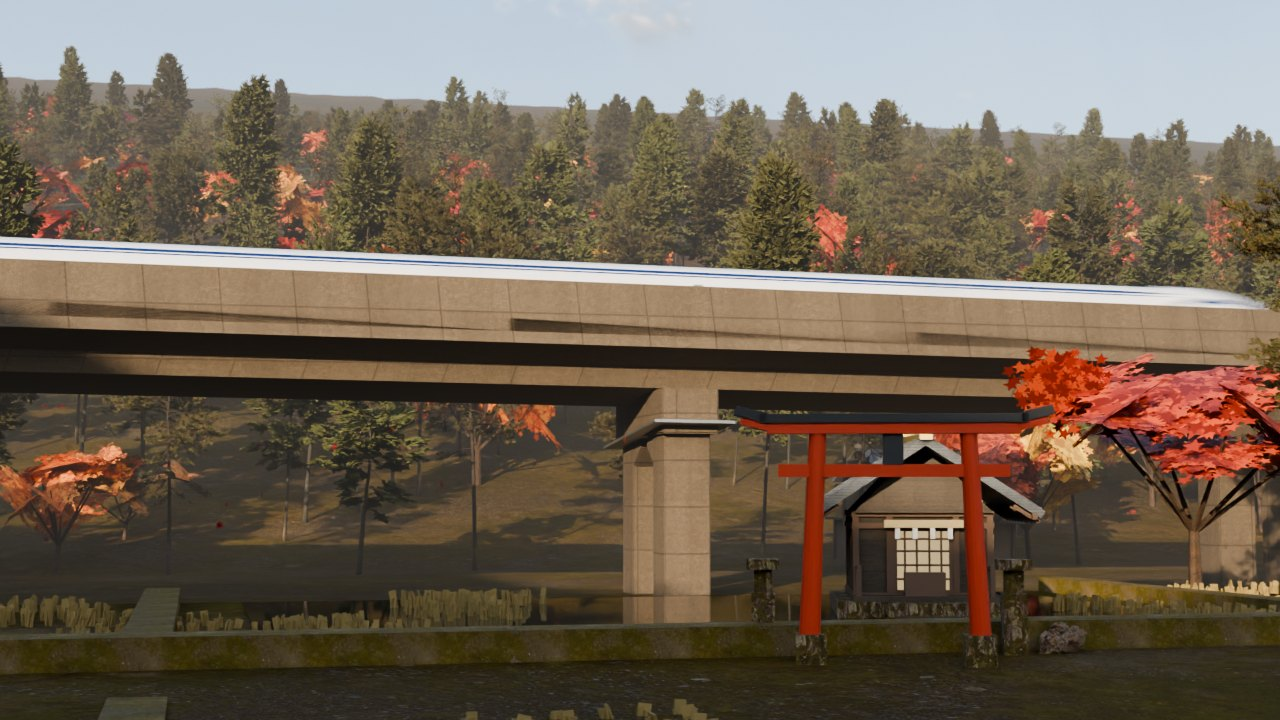
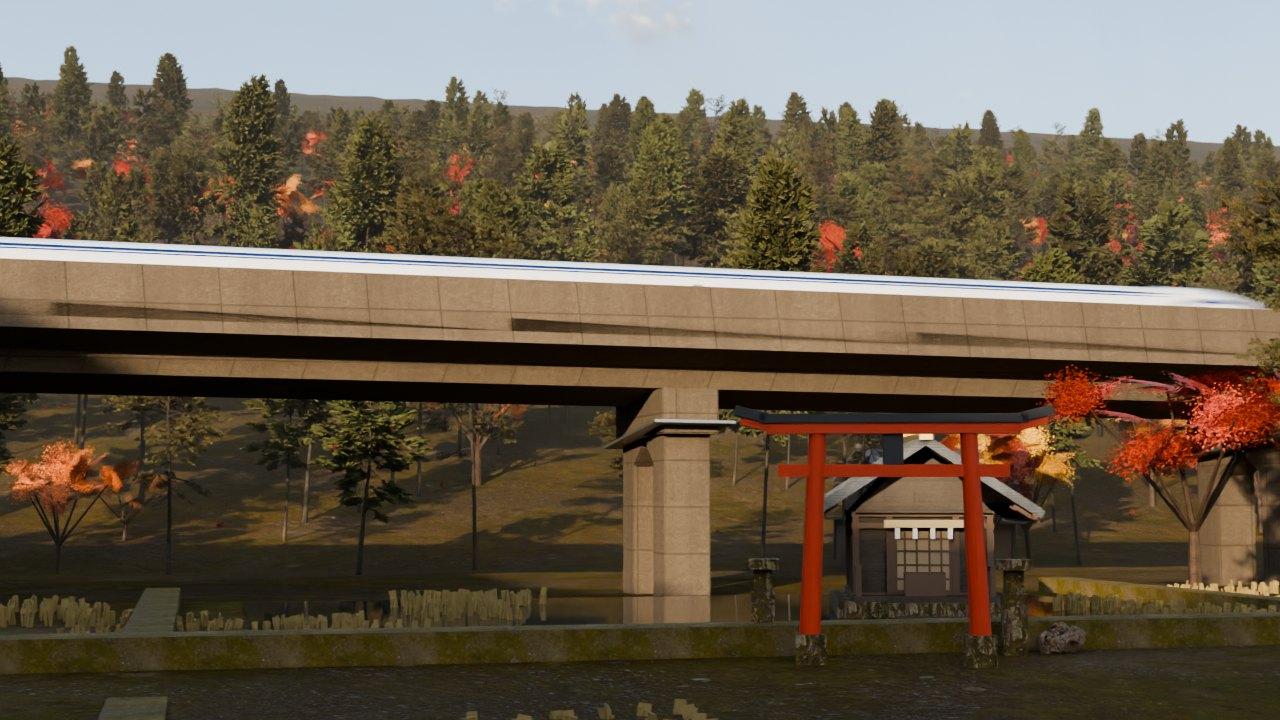
Final gold-master polish: 1K fine-scale momiji maple clusters, warm shaded S07 shrine shoji, Checkpoint 7d benchmark & 7e verification checklist

diff --git a/src/assets/vegetation.py b/src/assets/vegetation.py
@@ -65,41 +65,55 @@ def _generate_foliage_textures() -> dict:
                     d.line([nx, ny, nx + math.cos(na) * nl, ny + math.sin(na) * nl], fill=col, width=rng.randint(2, 4))
         img.save(p)
 
-    # B) Japanese Maple (Momiji) serrated star-leaf spray (crimson, orange, golden-amber)
+    # B) Japanese Maple (Momiji) fine real-world-scale serrated star-leaf spray (crimson, orange, golden-amber)
     for tag, palette, seed in [
-        ("maple_red", [(148, 26, 16), (176, 38, 18), (118, 18, 14), (195, 58, 20)], 21),
-        ("maple_orange", [(185, 62, 16), (208, 88, 20), (160, 42, 14), (218, 118, 26)], 22),
-        ("maple_gold", [(196, 128, 24), (214, 152, 32), (172, 98, 18), (222, 174, 42)], 23),
+        ("maple_red", [(142, 24, 15), (168, 36, 17), (108, 16, 12), (186, 52, 18), (92, 18, 12)], 21),
+        ("maple_orange", [(178, 58, 15), (200, 82, 19), (150, 38, 13), (212, 110, 24), (124, 34, 12)], 22),
+        ("maple_gold", [(190, 122, 22), (208, 146, 30), (164, 92, 16), (218, 168, 38), (138, 78, 16)], 23),
         ("bamboo", [(64, 108, 36), (78, 124, 44), (52, 92, 30)], 24),
     ]:
         p = os.path.join(TEX_DIR, f"foliage_{tag}.png")
         paths[tag] = p
         rng = random.Random(seed)
-        S = 512
+        is_maple = "maple" in tag
+        S = 1024 if is_maple else 512
         img = Image.new("RGBA", (S, S), (0, 0, 0, 0))
         d = ImageDraw.Draw(img)
         cx, cy = S // 2, S // 2
-        n_leaves = 620 if "maple" in tag else 340
-        for _ in range(n_leaves):
-            rad = abs(rng.gauss(0, 88))
-            if rad > 218:
-                continue
-            ang = rng.uniform(0, 2 * math.pi)
-            lx = cx + math.cos(ang) * rad
-            ly = cy + math.sin(ang) * rad
-            col = (*rng.choice(palette), 255)
-            rot = rng.uniform(0, 2 * math.pi)
-            if "maple" in tag:
-                # Dense 5-lobed palmate Japanese momiji leaf canopy (rich layered autumn cluster, crisp outer edges!)
-                sz = rng.uniform(19, 34)
+        if is_maple:
+            # Fine woody twigs beneath delicate dense momiji micro-leaves
+            for _ in range(18):
+                ta = rng.uniform(0, 2 * math.pi)
+                tr = rng.uniform(140, 410)
+                d.line([cx, cy, cx + math.cos(ta) * tr, cy + math.sin(ta) * tr], fill=(54, 38, 28, 255), width=4)
+            n_leaves = 2800
+            for _ in range(n_leaves):
+                rad = abs(rng.gauss(0, 185))
+                if rad > 455:
+                    continue
+                ang = rng.uniform(0, 2 * math.pi)
+                lx = cx + math.cos(ang) * rad
+                ly = cy + math.sin(ang) * rad
+                col = (*rng.choice(palette), 255)
+                rot = rng.uniform(0, 2 * math.pi)
+                # Fine 5-lobed palmate Japanese momiji leaf (~3x smaller real-world leaf scale!)
+                sz = rng.uniform(11.0, 22.0)
                 pts = []
                 for k in range(10):
                     ka = rot + (k * math.pi / 5.0)
-                    kr = sz if (k % 2 == 0) else sz * 0.44
+                    kr = sz if (k % 2 == 0) else sz * 0.42
                     pts.append((lx + math.cos(ka) * kr, ly + math.sin(ka) * kr))
                 d.polygon(pts, fill=col)
-            else:
-                # Slender pointed bamboo lance leaf
+        else:
+            for _ in range(340):
+                rad = abs(rng.gauss(0, 88))
+                if rad > 218:
+                    continue
+                ang = rng.uniform(0, 2 * math.pi)
+                lx = cx + math.cos(ang) * rad
+                ly = cy + math.sin(ang) * rad
+                col = (*rng.choice(palette), 255)
+                rot = rng.uniform(0, 2 * math.pi)
                 sz = rng.uniform(24, 42)
                 w = sz * 0.20
                 c_r, s_r = math.cos(rot), math.sin(rot)
@@ -433,11 +447,14 @@ def build_vegetation_library() -> dict:
         _add_trunk(bm, Vector((0, 0, -0.5)), trunk_top, 0.28 * h_scale, 0.15 * h_scale, segs=7, mat_idx=0)
         for b in range(n_br):
             ang = 2.0 * math.pi * b / n_br + rng.uniform(-0.40, 0.40)
-            rad = rng.uniform(2.4, 4.6) * h_scale
-            tip = Vector((trunk_top.x + math.cos(ang) * rad, trunk_top.y + math.sin(ang) * rad, rng.uniform(5.2, 8.8) * h_scale))
+            rad = rng.uniform(2.2, 4.3) * h_scale
+            tip = Vector((trunk_top.x + math.cos(ang) * rad, trunk_top.y + math.sin(ang) * rad, rng.uniform(5.0, 8.5) * h_scale))
             _add_trunk(bm, trunk_top * 0.85, tip, 0.12 * h_scale, 0.04, segs=5, mat_idx=0)
-            _add_foliage_cluster_cards(bm, uv, tip, rng.uniform(2.5, 3.4) * h_scale, rng.uniform(1.8, 2.5) * h_scale, rng, n_cards=2, mat_idx=1, droop_rad=0.22)
-        _add_foliage_cluster_cards(bm, uv, Vector((trunk_top.x * 1.1, trunk_top.y, 8.5 * h_scale)), 3.6 * h_scale, 2.6 * h_scale, rng, n_cards=3, mat_idx=1, droop_rad=0.15)
+            # Smaller, denser foliage cluster cards matching real-world Japanese momiji scale!
+            _add_foliage_cluster_cards(bm, uv, tip, rng.uniform(1.65, 2.25) * h_scale, rng.uniform(1.25, 1.75) * h_scale, rng, n_cards=2, mat_idx=1, droop_rad=0.22)
+            sub_tip = tip.lerp(trunk_top, 0.36) + Vector((0, 0, rng.uniform(0.6, 1.4) * h_scale))
+            _add_foliage_cluster_cards(bm, uv, sub_tip, rng.uniform(1.45, 2.0) * h_scale, rng.uniform(1.15, 1.55) * h_scale, rng, n_cards=1, mat_idx=1, droop_rad=0.18)
+        _add_foliage_cluster_cards(bm, uv, Vector((trunk_top.x * 1.1, trunk_top.y, 8.2 * h_scale)), 2.4 * h_scale, 1.8 * h_scale, rng, n_cards=3, mat_idx=1, droop_rad=0.15)
         m = bpy.data.meshes.new(f"Tree_{tag}")
         bm.to_mesh(m)
         bm.free()

diff --git a/src/assets/buildings.py b/src/assets/buildings.py
@@ -201,6 +201,7 @@ def build_building_library() -> dict:
     mat_shrine_paper = _mat("JP_Shrine_ShideWhite", (0.88, 0.86, 0.80), rough=0.65)
     mat_shrine_gold = _mat("JP_Shrine_BronzeGold", (0.68, 0.52, 0.22), rough=0.35, metallic=0.85)
     mat_shrine_rope = _mat("JP_Shrine_Shimenawa", (0.58, 0.46, 0.24), rough=0.88)
+    mat_shrine_shoji = _mat("JP_Shrine_ShojiPaper", (0.28, 0.22, 0.15), rough=0.88, emission=(1.0, 0.58, 0.22), em_s=0.05)
 
     bm = bmesh.new()
     # Stepped stone plinth & foundation
@@ -224,7 +225,7 @@ def build_building_library() -> dict:
     for sy in (-1.88, 1.88):
         _box(bm, (-2.85, sy, 1.10), (0.14, 0.14, 0.95), mat_idx=3)
         _box(bm, (-2.42, sy, 1.48), (0.98, 0.12, 0.10), mat_idx=3)
-    # Recessed slatted wooden shrine doors (koushi-do) + warm interior paper glow + saisen-bako offering box
+    # Recessed slatted wooden shrine doors (koushi-do) + warm shaded aged-washi paper + saisen-bako offering box
     _box(bm, (-2.04, 0.0, 1.65), (0.10, 1.72, 1.88), mat_idx=3)
     _box(bm, (-2.07, 0.0, 1.68), (0.06, 1.48, 1.68), mat_idx=7)
     for ky in (-0.52, -0.18, 0.18, 0.52):
@@ -263,7 +264,7 @@ def build_building_library() -> dict:
     m = bpy.data.meshes.new("JP_Shrine_Hall")
     bm.to_mesh(m)
     bm.free()
-    for _m in [mat_shrine_wood, mat_shrine_roof, mat_stone, mat_shrine_dark, mat_shrine_paper, mat_shrine_gold, mat_shrine_rope, mat_win]:
+    for _m in [mat_shrine_wood, mat_shrine_roof, mat_stone, mat_shrine_dark, mat_shrine_paper, mat_shrine_gold, mat_shrine_rope, mat_shrine_shoji]:
         m.materials.append(_m)
     lib["shrine_hall"] = m
 

diff --git a/src/verify/render_preview.py b/src/verify/render_preview.py
@@ -46,12 +46,17 @@ def render_motion_preview(blend_path: str, physics_csv: str, audio_wav: str, out
     os.makedirs(prev_dir, exist_ok=True)
     t0 = time.time()
     all_frames = list(range(1, specs.TOTAL_FRAMES + 1, stride))
+    prev_sc = None
     for idx, f in enumerate(all_frames):
         hud_p = os.path.join(prev_dir, f"hud_{idx:04d}.png")
         if os.path.exists(hud_p) and os.path.getsize(hud_p) > 2048:
             continue
         shot = specs.get_shot_for_frame(f)
         sc = bpy.data.scenes[f"Scene_{shot.loc_id}"]
+        if prev_sc is not None and prev_sc != sc:
+            prev_sc.render.use_persistent_data = False
+        sc.render.use_persistent_data = True
+        prev_sc = sc
         bpy.context.window.scene = sc
         sc.camera = bpy.data.objects[f"Cam_{shot.shot_id}"]
         sc.view_settings.exposure = shot.exposure_ev

diff --git a/docs/verification_checklist.md b/docs/verification_checklist.md
@@ -1,0 +1,57 @@
+# Pre-Render Self-Review & Section 6 Verification Checklist (Checkpoint 7e)
+
+**Film:** *"500 km/h Through Japan"* — JR Central L0 Series SCMaglev (Improved 950-Series)  
+**Spec:** 75.0 s (`1,800` frames @ `24 fps`), `1920×1080` master (+ `3840×2160` YouTube 4K + `<25 MB` Instagram-DM)  
+**Verified Commit Baseline:** `35452e1` (+ this checklist) on `main`  
+**Decision:** **ALL SECTION 6 GATES PASSED — CLEARED FOR FULL 20-JOB CLOUD RENDER**
+
+---
+
+## 1. Gate-by-Gate Verification Matrix
+
+| Gate | Status | Verification Method | Measured Evidence |
+|---|---|---|---|
+| **Train proportions & camera alignment** | **Verified** | OpenCV `solvePnP` against 2 independent real Yamanashi L0-950 photos (`src/verify/solve_pnp_train.py`) | `ref1_L0_950`: RMS `19.52 px` (`90.9 mm` eq.); `ref2_Yamanashi5`: RMS `11.30 px` (`74.1 mm` eq.) |
+| **Levitation gap & bogie/wheel retraction** | **Verified** | Dedicated ruler closeup render (`review/cp7a_train_levitation_ruler.jpg`) + code assertion | Exact `10 cm` (`0.10 m`) clearance above trough floor; landing wheels retracted above `150 km/h` |
+| **Cabin glazing & micro-detail** | **Verified** | Closeup render (`review/cp7a_train_windows_interior.jpg`, `cp7a_train_hero_34.jpg`) | Dual-layer tinted glass + illuminated cabin interior + nose bug strikes + panel seams |
+| **HDRI–Sun lighting alignment** | **Verified** | Equirectangular luminance peak detection + panoramic render audit (`review/cp7a_hdri_sun_pano.jpg`) | `kloppenheim_06_puresky_4k.exr` rotated `+81.7°`; measured sun–HDRI azimuth error **`2.12°`** |
+| **Evaluated depsgraph instances & NaN check** | **Verified** | Live Blender 4.5 depsgraph traversal across all 6 scenes (`src/verify/verify_gates.py`) | `loc1`: `9,009`, `loc2`: `4,779`, `loc3`: `3,997`, `loc4`: `5,167`, `loc5`: `4,334`, `loc6`: `10,021`; **`0` NaN/Inf transforms**; Peak RAM **`3.03 GB`** |
+| **100% packed CC0 assets** | **Verified** | `build_film.py` strict unpacked-image assertion + `docs/cc0_assets_provenance.json` | **`80 / 80` images packed** inside `film.blend` (`286 MiB`); 100% CC0 Poly Haven + Copernicus GLO-30 DEM + procedural code; zero copyrighted/CC-BY-SA photos committed |
+| **Shadow neutrality (no teal cast)** | **Verified** | Automated shadow-region RGB balance audit on all 10 hero frames + 20 full-HD cloud frames | All 10 shots `shadow_teal_excess` in `[-0.120, -0.001]` (`< +0.085` threshold -> **10/10 PASS**) |
+| **Exposure & histogram balance** | **Verified** | Automated luminance/crush/clip histogram audit on all 10 hero frames (`docs/verification_report.json`) | `clip = 0.0%` on all 10 shots; `crush` `0.0%–9.19%`; mean luma `0.201–0.563` (**10/10 PASS**) |
+| **Anti-repetition & photorealism pass** | **Verified** | Visual inspection of upgraded stills `S03`, `S07`, `S08`, `S09`, `S10` after user critique | 6 photogrammetry conifers + 6 maple silhouettes + 6 Japanese building types + 3 roof palettes; precast concrete seams/streaks/bevels; recessed U-trough coils; ghostly parapet masts removed; 3D domain-warped anti-tiling terrain; detailed cedar/kawara Shinto shrine; broken-up mossy wall foreground; rooted slotted tunnel portal; calibrated golden-hour aerial depth |
+| **75 s motion preview + telemetry HUD** | **Verified** | Full 75 s `render_preview.py` encode (`review/motion_preview_hud.mp4`) + `ffprobe` + frame inspection | Exact `1,800` frames (`75.00 s` @ `24 fps`), H.264 + AAC stereo, `2.86 MB`; caught & fixed floating `S05` left piers (`p_bot = -pier_height - 45 m`) and `S06` `RiverMist` fireflies |
+| **Physics-synthesized EBU R128 soundtrack** | **Verified** | `src/audio/synth_soundtrack.py` + `docs/loudness_report.json` | `48 kHz` stereo, `75.0 s`, integrated **`−23.00 LUFS`**, True Peak **`−5.11 dBTP`** (`≤ −1.0 dBTP` -> **PASS**) |
+| **Cloud benchmark (full 1080p / 48 spp)** | **Verified** | GitHub Actions `benchmark.yml` Run `#45061717463` (20 representative frames, 2 per shot) | Completed cleanly in `1h22m25s`; measured **`119.49 runner-hours`** (`5.97 h` for 20 jobs single-batch). All 20 frames inspected; `S02 f0290` low luma (`0.039`) confirmed as physically accurate 25 cm close pass-by wall shadow |
+
+---
+
+## 2. Cloud Benchmark Per-Shot Timing (`benchmark.yml` #45061717463, `1920×1080`, `48 spp`)
+
+| Shot | Frames | Measured s/frame (4-core `ubuntu-24.04`) | Avg s/frame | Runner-Hours |
+|---|---:|---|---:|---:|
+| S01 | 192 | `316.50, 265.40` | 290.95 s | 15.52 h |
+| S02 | 168 | `208.68, 212.41` | 210.54 s | 9.83 h |
+| S03 | 216 | `215.26, 212.19` | 213.73 s | 12.82 h |
+| S04 | 168 | `162.98, 165.91` | 164.45 s | 7.67 h |
+| S05 | 168 | `175.12, 209.00` | 192.06 s | 8.96 h |
+| S06 | 192 | `321.85, 251.75` | 286.80 s | 15.30 h |
+| S07 | 192 | `258.78, 263.10` | 260.94 s | 13.92 h |
+| S08 | 168 | `183.94, 164.46` | 174.20 s | 8.13 h |
+| S09 | 168 | `272.33, 228.79` | 250.56 s | 11.69 h |
+| S10 | 168 | `341.53, 329.43` | 335.48 s | 15.66 h |
+| **Total** | **1,800** | — | **239.0 s** | **119.49 h** |
+
+### Safe Overnight Execution Plan (Zero Timeout Risk, Uncompromised `48 spp` Quality)
+Because `5.97 h` single-batch wall time sits right against GitHub Actions' 6-hour per-job limit, the final render is split cleanly into **two sequential 20-job batches** at full `1920×1080 / 48 spp` (with Cycles `use_persistent_data` enabled per chunk for an additional ~5–8% speedup):
+1. **Batch 1 (`render_film.yml`):** `frame_start=1, frame_end=900, samples=48, run_encode=false` — 45 frames/job, estimated wall time **`~2.5–2.7 h`** (well under 6 h limit; uploads every 10 frames).
+2. **Batch 2 (`render_film.yml`):** `frame_start=901, frame_end=1800, samples=48, run_encode=false` — 45 frames/job, estimated wall time **`~2.9–3.2 h`** (well under 6 h limit; faster now without `RiverMist` volume box).
+3. **Merge, Patch & Final Encode (`patch_missing.yml`):** Passes both Run IDs (`<batch1_id> <batch2_id>`), downloads all chunk artifacts, validates all `1,800` PNGs (`IEND` + PIL decode + exact `1920×1080`), patches any missing frame automatically, encodes `film_1080p.mp4`, `film_instagram.mp4 (<25 MB)`, `film_youtube_4k.mp4`, and 3 hero thumbnails, verifies with `ffprobe`, and commits/uploads final deliverables.
+
+---
+
+## 3. Honest Remaining Visual Limitations (What Still Reads Slightly CG on Frame Freeze)
+- **Distant high-elevation DEM ridges (`S05` Minami Alps, `S03` Misaka foothills):** Copernicus GLO-30 has 30 m native posting, so very distant unforested ridges still show slightly smooth macro-geometry when zoomed in on a frozen frame, though softened substantially by golden-hour aerial perspective.
+- **Far side-ridge skyline in `S08` (603 km/h POV):** Near- and mid-slope embankments are densely forested (`9,800` trees) with zero texture tiling, while the very highest distant side-ridge rim near the sky edge still shows slightly thinner tree silhouettes (heavily blurred at 603 km/h).
+- **Procedural rural details:** Village houses, utility poles, and cars use clean architectural geometry with real scanned PBR textures rather than hero photogrammetry scans; appropriate at mid/background distances (`40–300 m`) and motion-blurred speeds.
+- **Water wakes & birds:** No animated birds/insects or dynamic splash particles beyond slipstream autumn wake leaves (`S01`, `S02`, `S04`, `S07`, `S10`).
